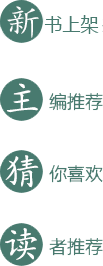
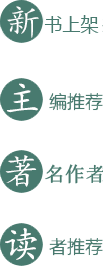
著名作者

Changed region(s): [[0.4369, 0.6015, 1.0, 0.6917], [0.0583, 0.5714, 0.3786, 0.7218]]

diff --git a/index.html b/index.html
@@ -17,7 +17,7 @@
             &nbsp; &nbsp; &nbsp; &nbsp;
             <span><a href="#">免费注册</a></span>
         </div>
-        <div class="f_right">
+        <div class="f_right topnav">
                <ul>
                 <li><a href="#"> 我的订单</a></li>
                 <li><a href="#">购物车</a></li>
@@ -226,16 +226,142 @@
       </ul>
     </div>
 </div>
-<div class="newbook wrapper"></div>
+<div class="newbook wrapper clearfix">
+    <div class="tj-title smalltitle"></div>
+    <div class="f_left clearfix hot-book">
+        <div class="blue-title">热门</div>
+        <ul >
+            <li class="li-box">
+               <a href="#"><img src="images/hb1.jpg" alt="" class="img"> </a> 
+               <a href="#"><p class="book-name">复仇者的秘密</p></a>
+               <p class="author">周业娅</p>
+               <p class="book-price">¥34.30</p>
+              
+            </li>
+            <li class="li-box">
+                    <a href="#"><img src="images/hb2.jpg" alt="" class="img"> </a> 
+                    <a href="#"><p class="book-name">聊斋志异</p></a>
+                    <p class="author">(清)蒲松龄</p>
+                    <p class="book-price">¥23.80</p>
+            </li>
+            <li class="li-box"> 
+                <a href="#"><img src="images/hb3.jpg" alt="" class="img"> </a> 
+                <a href="#"><p class="book-name">乌合之众 : 大众心理研究</p></a>
+                <p class="author">(法) 古斯塔夫·勒庞 </p>
+                <p class="book-price">¥22.10</p></li>
+            <li class="li-box">
+                    <a href="#"><img src="images/hb4.jpg" alt="" class="img"> </a> 
+                    <a href="#"><p class="book-name">罗生门（芥川龙之介小说集）</p></a>
+                    <p class="author">(日) 芥川龙之介 </p>
+                    <p class="book-price">¥25.40</p></li>
+            </li>
+            <li class="li-box">
+                    <a href="#"><img src="images/hb5.jpg" alt="" class="img"> </a> 
+                    <a href="#"><p class="book-name">大卫科波菲尔</p></a>
+                    <p class="author">(英)  查尔斯·狄更斯  </p>
+                    <p class="book-price">¥47.30</p></li>
+            </li>
+            <li class="li-box">
+                    <a href="#"><img src="images/hb6.jpg" alt="" class="img"> </a> 
+                    <a href="#"><p class="book-name"> 莎士比亚戏剧全集</p></a>
+                    <p class="author">〔英〕威廉·莎士比亚  </p>
+                    <p class="book-price">¥133.50</p></li>
+            </li>
+        </ul>
+    </div>
+    <div class="f_right clearfix hot-book">
+            <div class="blue-title">经典文学</div>
+            <ul >
+                <li class="li-box">
+                   <a href="#"><img src="images/hb-r1.jpg" alt="" class="img"> </a> 
+                   <a href="#"><p class="book-name">鲁迅杂文精选集</p></a>
+                   <p class="author">鲁迅</p>
+                   <p class="book-price">¥25.30</p>
+                  
+                </li>
+                <li class="li-box">
+                        <a href="#"><img src="images/hb-r2.jpg" alt="" class="img"> </a> 
+                        <a href="#"><p class="book-name">《读者》六年典藏精选·美文彩插系列2</p></a>
+                        <p class="author">读者杂志社编  </p>
+                        <p class="book-price">¥129.20</p>
+                </li>
+                <li class="li-box"> 
+                    <a href="#"><img src="images/hb-r3.jpg" alt="" class="img"> </a> 
+                    <a href="#"><p class="book-name">鲁迅精选集典藏套装</p></a>
+                    <p class="author">鲁迅  </p>
+                    <p class="book-price">¥66.80</p></li>
+                <li class="li-box">
+                        <a href="#"><img src="images/hb-r4.jpg" alt="" class="img"> </a> 
+                        <a href="#"><p class="book-name">再别康桥</p></a>
+                        <p class="author">徐志摩 </p>
+                        <p class="book-price">¥23.80 </p>
+                </li>
+                <li class="li-box">
+                        <a href="#"><img src="images/hb-r5.jpg" alt="" class="img"> </a> 
+                        <a href="#"><p class="book-name">生如夏花</p></a>
+                        <p class="author">(印) 泰戈尔  </p>
+                        <p class="book-price">¥31.30</p></li>
+                </li>
+                <li class="li-box">
+                        <a href="#"><img src="images/hb-r6.jpg" alt="" class="img"> </a> 
+                        <a href="#"><p class="book-name"> 林徽因作品畅销套装</p></a>
+                        <p class="author">林徽因  </p>
+                        <p class="book-price">¥44.20</p></li>
+                </li>
+    </div>
+    
+    
+</div>
+<div class="famous-author wrapper">
+    <div class="fa-title smalltitle"></div>
+    <div  id="wraps">
+            <div class="top clearfix">
+                <ul>
+                    <li><a onmouseover="showDiv(1)" id="abtn1" class="abtn"><img src="images/qiongyao.png"></a></li>
+                    <li><a onmouseover="showDiv(2)" id="abtn2"  class="abtn"><img src="images/ren2.png"></a></li>
+                    <li><a onmouseover="showDiv(3)" id="abtn3"  class="abtn"><img src="images/ren3.png"></a></li>
+                    <li><a onmouseover="showDiv(4)" id="abtn4"  class="abtn"><img src="images/ren4.png"></a></li>
+                    <li><a onmouseover="showDiv(5)" id="abtn5"  class="abtn"><img src="images/ren5.png"></a></li>
+                    <li><a onmouseover="showDiv(6)" id="abtn6"  class="abtn"><img src="images/ren6.png"></a></li>
+                    <li><a onmouseover="showDiv(7)" id="abtn7"  class="abtn"><img src="images/ren7.png"></a></li>
+                </ul>
+            </div>
+            <div class="down">
+                <div id="showdown1" style="display:block;" class="clearfix">
+                <div class="f_left authordetail">
+                    <a href="#">
+                           <img src="images/qiongyao.png" alt="" class="atpic">
+                           <p class="name">琼瑶</p>
+                           <p class="detail">
+                               原名：陈喆 作家、编剧，代表作《有窗外》、《几度夕阳红》、《庭院深深》、《还珠格格》、《梅花烙》、《一帘幽梦》、《烟雨濛濛》等
+                           </p>
+                    </a>
+                </div>
+                <div class="f_right">
+                    <div class="f_left">
+                        <img src="images/qybook1.jpg" alt="">
+                    </div>
+                    <div class="f_right"></div>
+                </div>
+                </div>
+                <div id="showdown2"><img src="images/2.png"></div>
+                <div id="showdown3"><img src="images/3.png"></div>
+                <div id="showdown4"><img src="images/4.png"></div>
+                <div id="showdown5"><img src="images/5.png"></div>
+                <div id="showdown6"><img src="images/6.png"></div>
+                <div id="showdown7"><img src="images/7.png"></div>
+            </div>               
+        </div>  
+</div>
 <script src="js/jquery-1.11.3.min.js"></script>
 <script src="js/swiper-4.3.5.min.js"></script>
 <script src="js/index.js"></script>
 <script>        
-        var mySwiper = new Swiper ('.swiper-container', {
+        var mySwiper = new Swiper('.swiper-container', {
             autoplay: {
            disableOnInteraction: false,
            delay: 5000,
-         },
+           },
          loop:true,
          simulateTouch : false,
           // 如果需要前进后退按钮
@@ -243,7 +369,7 @@
            nextEl: '.swiper-button-next',
            prevEl: '.swiper-button-prev',
          },
-        })        
-        </script>
+        });        
+</script>
 </body>
 </html>

diff --git a/css/style.css b/css/style.css
@@ -2,6 +2,7 @@
   width: 100%;
   min-width: 1200px;
   background-color: #f7f7f7;
+
  }
  i{
      display: inline-block;
@@ -41,7 +42,7 @@
  .f_right{
      float: right;
  }
- .f_right>ul>li{
+ .topnav>ul>li{
      float: left;
      margin: 0 10px;
     height: 29px;
@@ -334,7 +335,7 @@
 }
 
 .newbook{
-    padding: 30px;
+    padding:20px 30px 0 30px;
    
 }
 .smalltitle{
@@ -342,7 +343,7 @@
 	padding-left: 99px;
     height: 43px;
    
-    padding: 10px 0;
+    margin: 10px 0;
 }
 .newbook .nb-title{
     background-position: 0 0;
@@ -362,7 +363,7 @@
     -webkit-box-shadow: 1px 1px 4px #ccc, -1px 1px 10px #ccc;
 }
 .newbook .nb-box{
-    padding: 30px 0;
+    padding: 10px 0;
 }
 .nb-box ul{
     margin-left: -12px;
@@ -386,6 +387,7 @@
     white-space: nowrap;
     text-overflow: ellipsis;
     overflow: hidden;
+    color: #333;
 }
 .author{
     font-size: 16px;
@@ -398,6 +400,111 @@
 .book-price{
     height: 30px;
     line-height: 30px;
-    font-size: 14px;
+    font-size: 21px;
+    font-weight: bolder;
     color: red;
+}
+.tj-title{
+    background-position:  0 -78px; 
+}
+.hot-book{
+background-color: #fff;
+width: 594px;
+margin-top: 20px;
+
+}
+.wrapper .blue-title{
+    background-color: #7095ee;
+    font-size: 18px;
+    color: #fff;
+    height:46px;
+    padding: 0 15px;
+    line-height: 46px;
+    font-weight: bold;
+}
+.li-box{
+    float: left;
+    width: 160px;
+    height: 280px;
+    padding: 0 18px;
+    text-align: center;
+    border: 1px solid #f4f4f4;
+}
+.li-box .img{
+    padding: 10px 0;
+    width: 100%;
+}
+.li-box:hover{
+    border: 1px solid #7095ee;
+}
+.famous-author{
+    padding: 20px 30px 0 30px;
+}
+.fa-title{
+    background-position: 0 -150px;
+}
+#wrap{
+   sd
+    padding-top:20px; 
+}
+#wraps .top{
+    width:850px;
+    margin: 0 auto;
+}
+#wraps .top ul
+{
+    list-style-position:outside; 
+    list-style-type:none;
+}
+#wraps .top ul li{
+    float:left; width:121px;
+}
+#wraps .top ul li a
+{    display:block;
+     cursor:pointer;
+     width: 100px;
+    }
+#wraps .top ul li img
+{
+   width: 100%;
+   border-radius:15px; 
+}
+#wraps .down
+{
+    width:1000px; 
+    padding: 20px;
+}
+#wraps .down .f_left atpic{
+  width: 180px;
+  height: 220px;
+}
+#wraps .down .f_left a{
+    display: block;
+}
+#wraps .down .f_left a:hover{
+    text-decoration: none;
+}
+#wraps .down div
+{
+    /* display:none; */
+}
+#wraps .down .authordetail{
+    width:200px;
+}
+.name{
+    text-align: center;
+    font-size: 22px;
+    margin-top: 20px;
+    overflow: hidden;
+    text-overflow: ellipsis;
+    white-space: nowrap;
+    line-height: 28px;
+}
+.detail{
+    margin-left: 8px;
+    margin-right: 8px;
+    font-size: 12px;
+    line-height: 20px;
+    height: 150px;
+    overflow: hidden;
 }

diff --git a/js/index.js b/js/index.js
@@ -24,8 +24,22 @@ $(function(){
         );
        $(".classify-bottom").mouseleave(function(){
            $(".classify_nav_box").hide();
-       })
+       });
       
-         
+    function linkMenu(n) {
+        document.getElementById('link' + n).className = "link" + n + "_o";
+        document.getElementById('abtn' + n).className = "left_bar_over";
+        document.getElementById('showdown' + n).style.display = "block";
+    };
+    
+    function showDiv(n) {
+        for (i=1;i<=7;i++)//i<=7 这里的7为选项卡的li个数
+        {
+            var abtn = document.getElementById('abtn' + i);
+            var showdown = document.getElementById('showdown' + i);
+            abtn.className = i == n ? "left_bar_over": "left_bar_out";
+            showdown.style.display = i == n ? "block": "none";
+        }
+    }   ;    
          
 })

diff --git a/css/reset.min.css b/css/reset.min.css
@@ -3,7 +3,7 @@
 body,div,h1,h2,h3,h4,h5,h6,hr,p,blockquote,dl,dt,dd,ul,ol,li,pre,code,form,fieldset,legend,button,textarea,table,tbody,tfoot,thead,th,td,article,aside,dialog,figure,footer,header,hgroup,menu,nav,section,time,mark,audio,video
 {margin:0;padding:0;outline:0;background:transparent;}
 article,aside,dialog,figure,footer,header,hgroup,nav,section{display:block;}
-body,button,input,select,textarea{font:12px/1.5 arial,\5b8b\4f53,sans-serif;}
+body,button,input,select,textarea{font: 12px/1.5 "Microsoft YaHei" ,\5b8b\4f53,sans-serif;}
 h1,h2,h3,h4,h5,h6,button,input,select,textarea{font-size:100%;}
 address,cite,dfn,em,var{font-style:normal;}
 code,kbd,pre,samp{font-family:courier new,courier,monospace;}
